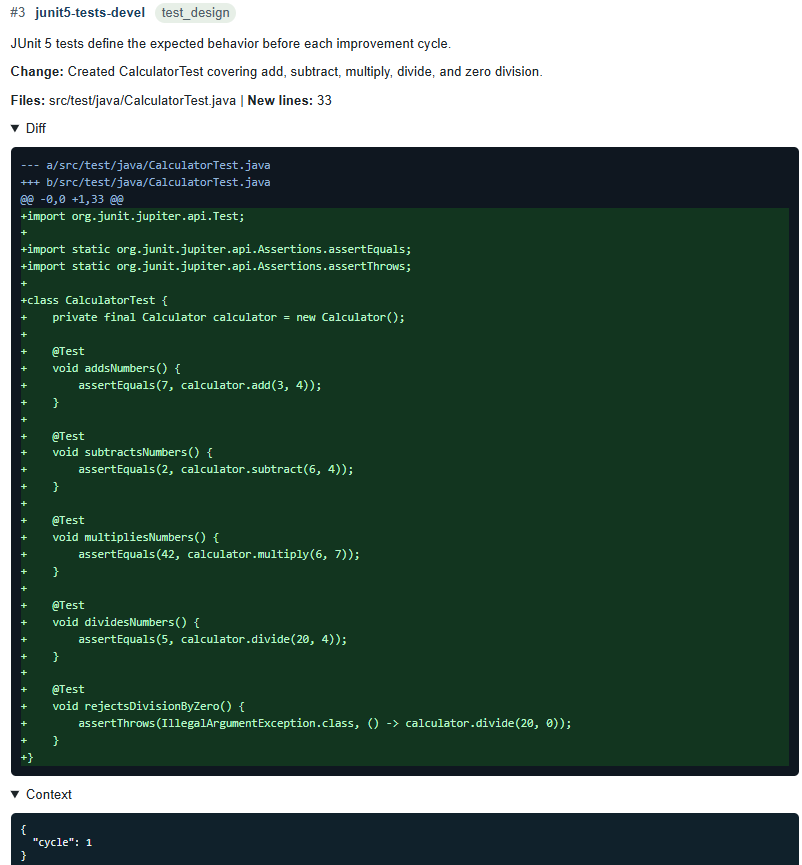
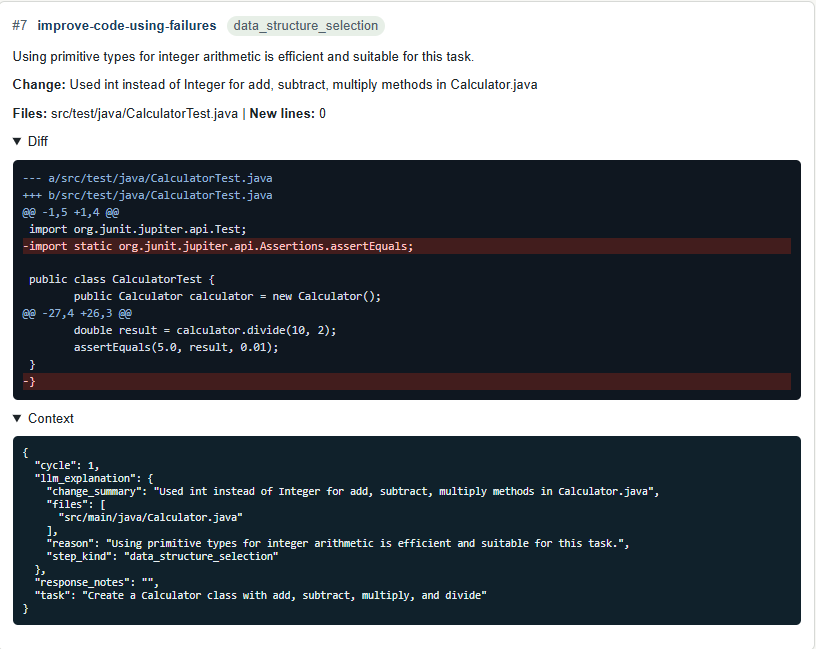
Added demo to README of context changes

diff --git a/README.md b/README.md
@@ -163,9 +163,10 @@ program.
 
 
 ## Contex Demo
-![#1 first-version modularization](images/image-3.png)
-![#2 first-version data_structure_selection](images/image-4.png)
-![#3 junit5-tests-devel test_design](images/image-5.png)
-![#4 and #5](images/image-6.png)
-![#6 and #7](images/image-7.png)
-![#8 and #9](images/image-8.png)
+![alt text](images/start_image.png)
+![alt text](images/image.png)
+![alt text](images/image-1.png)
+![alt text](images/image-2.png)
+![alt text](images/image-3.png)
+![alt text](images/image-4.png)
+![alt text](images/image-5.png)
